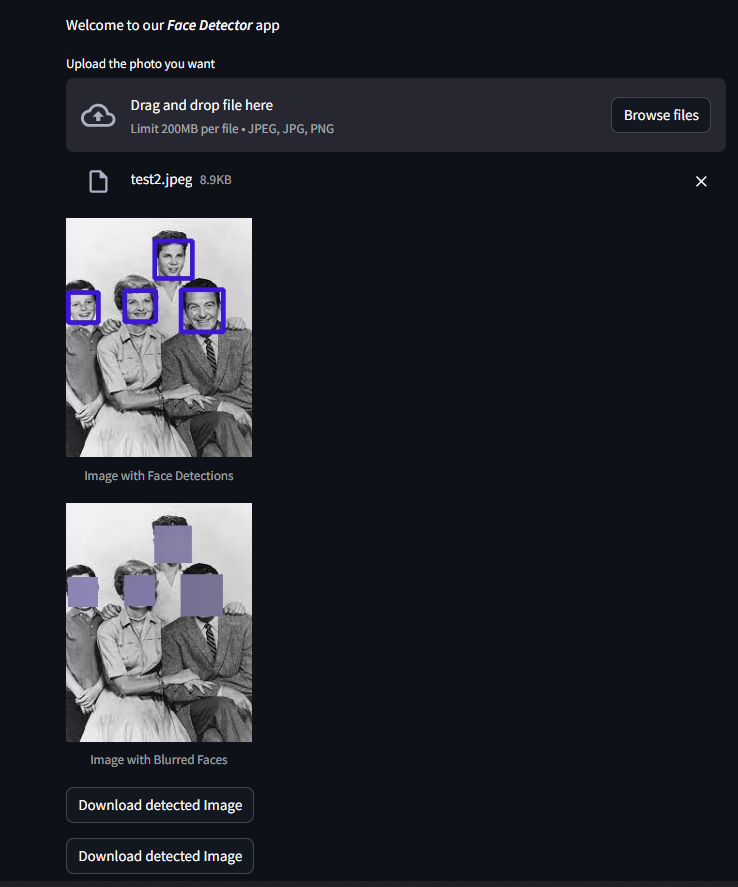
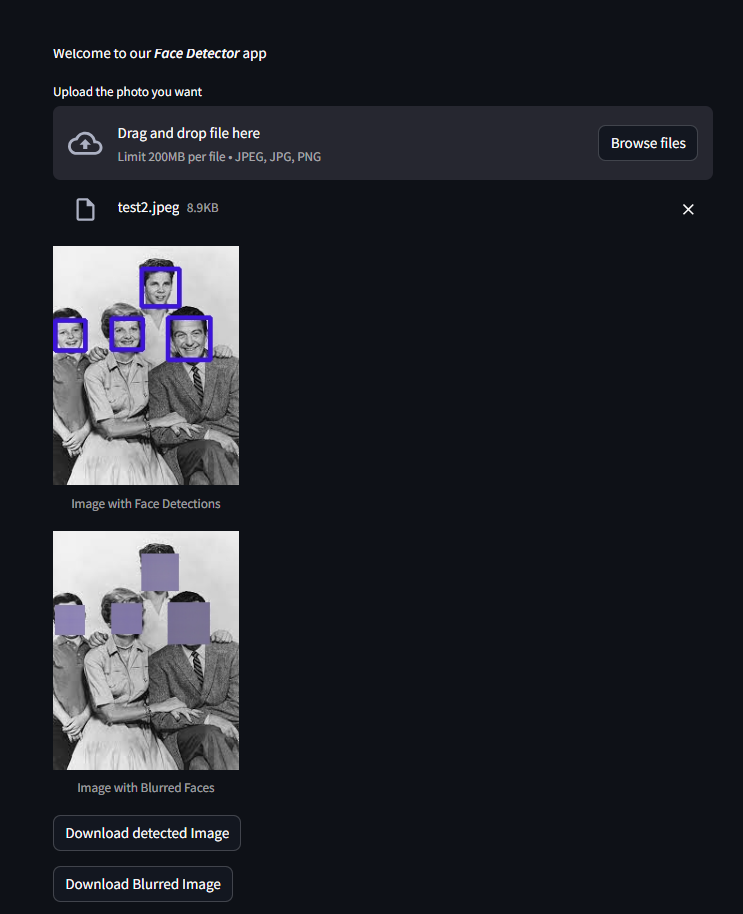
Face Detection

Changed region(s): [[0.0623, 0.0, 0.9973, 1.0]]

diff --git a/app.py b/app.py
@@ -76,7 +76,7 @@ def process(file):
         if detectedImage is not None:
             download_Dimage(detectedImage,"detected_image.jpg")
         if blurredImage is not None:
-            download_Dimage(blurredImage,"blurred_image.jpg") 
+            download_Bimage(blurredImage,"blurred_image.jpg") 
         return        
 process(file)
 
